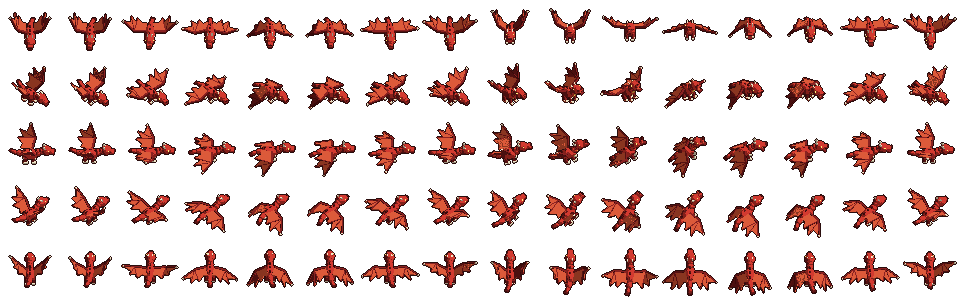
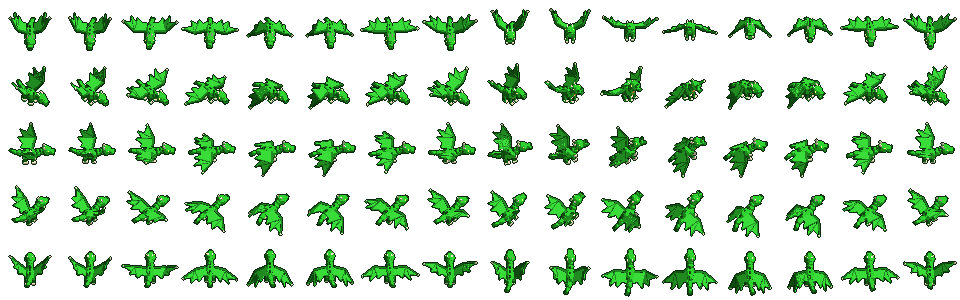
v2: vermelho só para o que machuca o jogador (Dragãozinho verde, Golem ocre, evoluções e teste)
- Dragãozinho: PNG recolorido de vermelho para verde (só o matiz muda; saturação e brilho ficam). Cor [0.45, 0.92, 0.42], que antes era o mesmo ciano do Lobo Espiritual; texto da carta e do lote em verde.
- Golem de Barro: PNG recolorido de terracota para ocre (matiz de 40 graus), poeira dourada mantida.
- Evoluções em dados/v2_cartas.json: Juízo Final em dourado âmbar; Fogos de Festival em ciano (era vermelho, e o HUD usa essa cor no halo da fusão).
- Textos de arte (visual e cores) de bola de fogo, meteoro, serpente, golem e dragão trocados de vermelho para âmbar, ocre e verde (v2_cartas.json e lotes 1, 4 e 5).
- testes/v2_cores_perigo.gd: passa a cobrir as evoluções e os PNGs dos aliados (nenhum pixel visível em vermelho ou terracota) e confere que Dragãozinho e Lobo têm tons diferentes.
- v2/roteiro.gd (--roteiro=cores): um Explosivo parado ao lado do herói; as fotos 4_aviso e 5_aviso saem 0,25 s e 0,5 s depois da morte, com o aviso vermelho claro no chão.
- v2/DESIGN.md: regra atualizada; o que continuava vermelho (corpo do Dragãozinho e do Golem) saiu da lista.

Testes locais (Godot 4.4.1 headless): v2_cores_perigo, v2_golem, v2_icones_cartas, v2_cartas_espera, v2_status, v2_andante, v2_hud_golpes e v2_combate, todos com falhas=0. Fotos com janela: roteiro cores (1 a 3, 4_aviso, 5_aviso).

diff --git a/jogos/hordas/projeto/v2/DESIGN.md b/jogos/hordas/projeto/v2/DESIGN.md
@@ -63,7 +63,7 @@ A fonte única da UI é `v2/paleta.gd`, com constantes GDScript. HUD, SUA BUILD,
 
 XP dourado e ouro de seleção são papéis distintos. Fusão magenta continua distinta de raridade lendária. Não alterar os dados de sorteio para mudar apenas a cor da UI. Novas cores de estado entram na fonte única antes do uso. `docs/visual_2_5d/paleta.json` aponta para ela e preserva somente estudos de arte de elementos/dano.
 
-**Vermelho é só perigo para o jogador.** `PERIGO` marca o que machuca o herói: o dano que ele leva (número `COR_DANO_HEROI` e faíscas em `combate.gd`, vinheta `VERMELHO_VINHETA`), a derrota, a barra de vida do inimigo e o aviso do que vai atingi-lo (o Explosivo em `dados/v2_cartas.json`, o anúncio de FÚRIA do chefe). A barra de vida do herói (`VIDA`) segue vermelha, porque é o que o jogador perde. Efeito, arma, aliado e andante do herói não usam vermelho: fogo e armas do herói saem em dourado (`OURO`, `#ffdb6b`), o anel do Grito de Guerra e os Fogos de Festival em ciano (`#80f2ff`), névoa e bandeiras em verde-menta (`#8cf29e`, `BONUS`). Laranja e âmbar contam como fogo, não como vermelho. As cores de efeito de cada arma e aliado ficam em `cor` dos `golpes` de `dados/v2_cartas.json`, que é o que o jogo lê (os `dados/v2_armas/lote_*.json` são só registro, com os mesmos valores), e as de fichas do andante em `v2/andante.gd`. `testes/v2_cores_perigo.gd` confere que nenhuma delas cai na faixa de vermelho (matiz de 0 a 16 graus, saturado e claro) e que o aviso do Explosivo cai nela. Trocas do lote cores-perigo: Fogo do Céu, Pedras Vulcânicas e nó da Cabaça em dourado; Cortina de Sangue em verde-menta; Golem de Barro com poeira dourada; Dragãozinho com efeito ciano; bandeiras da Sentinela em verde; olho do Corvo em dourado; Dragão de Brasa com mistura dourada; sopro de fogo terminando em âmbar. Continuam vermelhos o corpo do Dragãozinho (arte PNG) e o barro marrom-avermelhado do Golem (arte): trocar isso é trabalho de arte (Codex ou Blender), não de código. O título da seção HERÓI do Status (`SECAO_HEROI`, salmão claro) é cabeçalho, não aviso, e fica.
+**Vermelho é só perigo para o jogador.** `PERIGO` marca o que machuca o herói: o dano que ele leva (número `COR_DANO_HEROI` e faíscas em `combate.gd`, vinheta `VERMELHO_VINHETA`), a derrota, a barra de vida do inimigo e o aviso do que vai atingi-lo (o Explosivo em `dados/v2_cartas.json`, o anúncio de FÚRIA do chefe). A barra de vida do herói (`VIDA`) segue vermelha, porque é o que o jogador perde. Efeito, arma, aliado e andante do herói não usam vermelho: fogo e armas do herói saem em dourado (`OURO`, `#ffdb6b`) ou âmbar, o anel do Grito de Guerra e os Fogos de Festival em ciano (`#80f2ff`), névoa e bandeiras em verde-menta (`#8cf29e`, `BONUS`), o Golem em ocre e o Dragãozinho em verde. Laranja e âmbar contam como fogo, não como vermelho. As cores de efeito de cada arma e aliado ficam em `cor` dos `golpes` e das `evolucoes` de `dados/v2_cartas.json`, que é o que o jogo lê (os `dados/v2_armas/lote_*.json` são só registro, com os mesmos valores), e as de fichas do andante em `v2/andante.gd`. Os PNGs dos aliados que tinham vermelho foram recoloridos no próprio arquivo, trocando só o matiz e mantendo saturação e brilho (script de uma linha: matiz de 330 a 35 graus vai para 120 graus no Dragãozinho e para 40 graus no Golem): `assets/v2/armas/dragao_filhote_dir.png` e `assets/v2/armas/golem_barro_dir.png`. Se a arte for gerada de novo (`fonte_arte/blender_golem/gerar_golem.py`), a troca de matiz tem de ser refeita. `testes/v2_cores_perigo.gd` confere que nenhuma dessas cores cai na faixa de vermelho (matiz de 0 a 16 graus, saturado e claro), que nenhum pixel visível dos dois PNGs cai em vermelho ou terracota (até 30 graus), que Dragãozinho e Lobo Espiritual têm tons diferentes e que o aviso do Explosivo cai na faixa de vermelho. Trocas do lote cores-perigo: Fogo do Céu, Pedras Vulcânicas e nó da Cabaça em dourado; Juízo Final em dourado âmbar; Cortina de Sangue em verde-menta; Golem de Barro em ocre com poeira dourada; Dragãozinho em verde; Fogos de Festival em ciano; bandeiras da Sentinela em verde; olho do Corvo em dourado; Dragão de Brasa com mistura dourada; sopro de fogo terminando em âmbar. O título da seção HERÓI do Status (`SECAO_HEROI`, salmão claro) é cabeçalho, não aviso, e fica.
 
 ## 3. Tipografia
 
